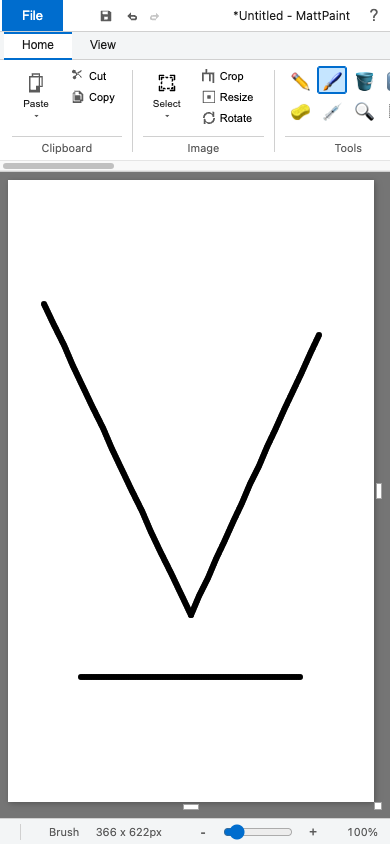
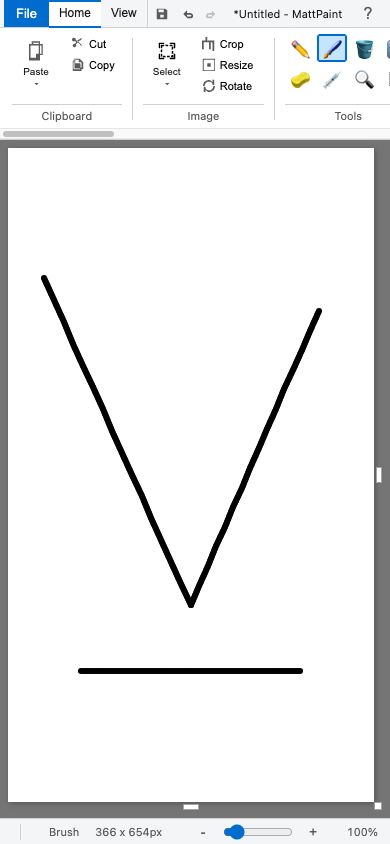
One top row, fixed View tab, copy and share your picture
- File, Home, View, save/undo/redo and the title now share one row; the
  decorative minimize/maximize/close buttons are gone
- View tab buttons use the same large-button structure as Home, so nothing
  overlaps the group labels
- File > Copy image puts the whole picture on the clipboard (Copy with no
  selection does the same); File > Share... opens the phone share sheet
- Toast for copy/share feedback

diff --git a/index.html b/index.html
@@ -17,43 +17,6 @@
 </head>
 <body>
     <div id="app">
-        <!-- Title Bar -->
-        <div id="title-bar">
-            <div class="title-left">
-                <button id="file-menu-btn" class="file-btn">File</button>
-            </div>
-            <div class="title-center">
-                <span id="document-title">Untitled - MattPaint</span>
-            </div>
-            <div class="title-right">
-                <button class="title-btn" id="help-btn" title="Help">?</button>
-                <div class="window-controls">
-                    <button class="window-btn minimize" title="Minimize">
-                        <svg viewBox="0 0 10 10"><line x1="0" y1="5" x2="10" y2="5"/></svg>
-                    </button>
-                    <button class="window-btn maximize" title="Maximize">
-                        <svg viewBox="0 0 10 10"><rect x="0" y="0" width="10" height="10" fill="none"/></svg>
-                    </button>
-                    <button class="window-btn close" title="Close">
-                        <svg viewBox="0 0 10 10"><line x1="0" y1="0" x2="10" y2="10"/><line x1="10" y1="0" x2="0" y2="10"/></svg>
-                    </button>
-                </div>
-            </div>
-        </div>
-
-        <!-- Quick Access Toolbar -->
-        <div id="quick-access">
-            <button class="qat-btn" id="qat-save" title="Save (Cmd+S)">
-                <svg viewBox="0 0 16 16"><path d="M2 2v12h12V4l-2-2H2zm2 1h6v3H4V3zm6 9H6V9h4v3z"/></svg>
-            </button>
-            <button class="qat-btn" id="qat-undo" title="Undo (Cmd+Z)">
-                <svg viewBox="0 0 16 16"><path d="M4 8l4-4v3h4a3 3 0 0 1 0 6H8v-2h4a1 1 0 0 0 0-2H8v3L4 8z"/></svg>
-            </button>
-            <button class="qat-btn" id="qat-redo" title="Redo (Cmd+Y)">
-                <svg viewBox="0 0 16 16"><path d="M12 8l-4-4v3H4a3 3 0 0 0 0 6h4v-2H4a1 1 0 0 1 0-2h4v3l4-4z"/></svg>
-            </button>
-        </div>
-
         <!-- File Menu Dropdown -->
         <div id="file-menu" class="dropdown-menu hidden">
             <div class="menu-section">
@@ -108,6 +71,20 @@
             </div>
             <div class="menu-separator"></div>
             <div class="menu-section">
+                <button class="menu-item" id="menu-copy-image">
+                    <span class="menu-icon">
+                        <svg viewBox="0 0 16 16"><path d="M4 1v2H2v12h10v-2h2V5l-4-4H4zm1 1h4v3h3v6h-1V6H5V2zm-2 2h1v8h6v1H3V4z"/></svg>
+                    </span>
+                    <span class="menu-text">Copy image</span>
+                    <span class="menu-shortcut">Cmd+C</span>
+                </button>
+                <button class="menu-item hidden" id="menu-share">
+                    <span class="menu-icon">
+                        <svg viewBox="0 0 16 16"><path d="M8 1L4.5 4.5l.7.7L7.5 3v7h1V3l2.3 2.2.7-.7L8 1zM3 7v7h10V7h-1v6H4V7H3z"/></svg>
+                    </span>
+                    <span class="menu-text">Share...</span>
+                    <span class="menu-shortcut"></span>
+                </button>
                 <button class="menu-item" id="menu-email">
                     <span class="menu-icon">
                         <svg viewBox="0 0 16 16"><path d="M1 3v10h14V3H1zm1.5 1h11l-5.5 4-5.5-4zm-.5 1.5l5 3.5 5-3.5V12H2V5.5z"/></svg>
@@ -152,10 +129,24 @@
             </div>
         </div>
 
-        <!-- Ribbon Tabs -->
+        <!-- Top row: File, tabs, quick access, title, help -->
         <div id="ribbon-tabs">
+            <button id="file-menu-btn" class="file-btn">File</button>
             <button class="ribbon-tab active" data-tab="home">Home</button>
             <button class="ribbon-tab" data-tab="view">View</button>
+            <div id="quick-access">
+                <button class="qat-btn" id="qat-save" title="Save (Cmd+S)">
+                    <svg viewBox="0 0 16 16"><path d="M2 2v12h12V4l-2-2H2zm2 1h6v3H4V3zm6 9H6V9h4v3z"/></svg>
+                </button>
+                <button class="qat-btn" id="qat-undo" title="Undo (Cmd+Z)">
+                    <svg viewBox="0 0 16 16"><path d="M4 8l4-4v3h4a3 3 0 0 1 0 6H8v-2h4a1 1 0 0 0 0-2H8v3L4 8z"/></svg>
+                </button>
+                <button class="qat-btn" id="qat-redo" title="Redo (Cmd+Y)">
+                    <svg viewBox="0 0 16 16"><path d="M12 8l-4-4v3H4a3 3 0 0 0 0 6h4v-2H4a1 1 0 0 1 0-2h4v3l4-4z"/></svg>
+                </button>
+            </div>
+            <span id="document-title">Untitled - MattPaint</span>
+            <button class="title-btn" id="help-btn" title="About MattPaint">?</button>
         </div>
 
         <!-- Ribbon Content -->
@@ -433,17 +424,23 @@
                 <div class="ribbon-group">
                     <div class="ribbon-group-content">
                         <div class="ribbon-buttons-row">
-                            <button class="ribbon-btn" id="btn-zoom-in" title="Zoom in">
-                                <svg viewBox="0 0 24 24"><path d="M10 4a6 6 0 1 0 3.5 10.9l4.3 4.3 1.4-1.4-4.3-4.3A6 6 0 0 0 10 4zm0 2a4 4 0 1 1 0 8 4 4 0 0 1 0-8zm-1 2v1H7v2h2v1h2v-1h2V9h-2V8H9z"/></svg>
-                                <span>Zoom in</span>
+                            <button class="ribbon-btn large" id="btn-zoom-in" title="Zoom in">
+                                <div class="btn-icon large">
+                                    <svg viewBox="0 0 24 24"><path d="M10 4a6 6 0 1 0 3.5 10.9l4.3 4.3 1.4-1.4-4.3-4.3A6 6 0 0 0 10 4zm0 2a4 4 0 1 1 0 8 4 4 0 0 1 0-8zm-1 2v1H7v2h2v1h2v-1h2V9h-2V8H9z"/></svg>
+                                </div>
+                                <span class="btn-label">Zoom in</span>
                             </button>
-                            <button class="ribbon-btn" id="btn-zoom-out" title="Zoom out">
-                                <svg viewBox="0 0 24 24"><path d="M10 4a6 6 0 1 0 3.5 10.9l4.3 4.3 1.4-1.4-4.3-4.3A6 6 0 0 0 10 4zm0 2a4 4 0 1 1 0 8 4 4 0 0 1 0-8zM7 9v2h6V9H7z"/></svg>
-                                <span>Zoom out</span>
+                            <button class="ribbon-btn large" id="btn-zoom-out" title="Zoom out">
+                                <div class="btn-icon large">
+                                    <svg viewBox="0 0 24 24"><path d="M10 4a6 6 0 1 0 3.5 10.9l4.3 4.3 1.4-1.4-4.3-4.3A6 6 0 0 0 10 4zm0 2a4 4 0 1 1 0 8 4 4 0 0 1 0-8zM7 9v2h6V9H7z"/></svg>
+                                </div>
+                                <span class="btn-label">Zoom out</span>
                             </button>
-                            <button class="ribbon-btn" id="btn-zoom-100" title="100%">
-                                <svg viewBox="0 0 24 24"><text x="4" y="17" font-size="12" font-weight="bold">100%</text></svg>
-                                <span>100%</span>
+                            <button class="ribbon-btn large" id="btn-zoom-100" title="100%">
+                                <div class="btn-icon large">
+                                    <svg viewBox="0 0 24 24"><rect x="2" y="6" width="20" height="12" rx="2" fill="none" stroke="currentColor" stroke-width="1.5"/><text x="12" y="15.5" font-size="8" font-weight="bold" text-anchor="middle" font-family="Segoe UI, sans-serif">100%</text></svg>
+                                </div>
+                                <span class="btn-label">100%</span>
                             </button>
                         </div>
                     </div>
@@ -464,7 +461,7 @@
                                 <input type="checkbox" id="chk-gridlines">
                                 <span>Gridlines</span>
                             </label>
-                            <label class="ribbon-checkbox" checked>
+                            <label class="ribbon-checkbox">
                                 <input type="checkbox" id="chk-statusbar" checked>
                                 <span>Status bar</span>
                             </label>
@@ -478,10 +475,14 @@
                 <!-- Display Group -->
                 <div class="ribbon-group">
                     <div class="ribbon-group-content">
-                        <button class="ribbon-btn" id="btn-fullscreen" title="Full screen">
-                            <svg viewBox="0 0 24 24"><path d="M4 4h6v2H6v4H4V4zm10 0h6v6h-2V6h-4V4zM4 14v6h6v-2H6v-4H4zm16 0v6h-6v-2h4v-4h2z"/></svg>
-                            <span>Full screen</span>
-                        </button>
+                        <div class="ribbon-buttons-row">
+                            <button class="ribbon-btn large" id="btn-fullscreen" title="Full screen">
+                                <div class="btn-icon large">
+                                    <svg viewBox="0 0 24 24"><path d="M4 4h6v2H6v4H4V4zm10 0h6v6h-2V6h-4V4zM4 14v6h6v-2H6v-4H4zm16 0v6h-6v-2h4v-4h2z"/></svg>
+                                </div>
+                                <span class="btn-label">Full screen</span>
+                            </button>
+                        </div>
                     </div>
                     <div class="ribbon-group-label">Display</div>
                 </div>
@@ -941,6 +942,7 @@
     <input type="file" id="paste-file-input" accept="image/*" class="hidden">
 
     <!-- Scripts -->
+    <div id="toast" class="hidden"></div>
     <script src="js/app.js"></script>
     <script>
         // Self-test suite loads only when asked for: index.html?test

diff --git a/js/app.js b/js/app.js
@@ -359,6 +359,13 @@
         document.getElementById('menu-save-as').addEventListener('click', () => { hideFileMenu(); saveFileAs(); });
         document.getElementById('menu-print').addEventListener('click', () => { hideFileMenu(); printFile(); });
         document.getElementById('menu-camera').addEventListener('click', () => { hideFileMenu(); openCamera(); });
+        document.getElementById('menu-copy-image').addEventListener('click', () => { hideFileMenu(); copyWholeImage(); });
+        const shareItem = document.getElementById('menu-share');
+        shareItem.addEventListener('click', () => { hideFileMenu(); shareImage(); });
+        try {
+            const probe = new File([new Blob([new Uint8Array(4)], { type: 'image/png' })], 'p.png', { type: 'image/png' });
+            if (navigator.canShare && navigator.canShare({ files: [probe] })) shareItem.classList.remove('hidden');
+        } catch (e) {}
         document.getElementById('menu-email').addEventListener('click', () => { hideFileMenu(); sendEmail(); });
         document.getElementById('menu-wallpaper').addEventListener('click', () => { hideFileMenu(); setAsWallpaper(); });
         document.getElementById('menu-properties').addEventListener('click', () => { hideFileMenu(); showProperties(); });
@@ -1270,7 +1277,53 @@
     }
 
     // ==================== CLIPBOARD ====================
+    function showToast(msg, ms = 1800) {
+        const t = document.getElementById('toast');
+        if (!t) return;
+        t.textContent = msg;
+        t.classList.remove('hidden');
+        clearTimeout(showToast._timer);
+        showToast._timer = setTimeout(() => t.classList.add('hidden'), ms);
+    }
+
+    // Copy the whole picture to the system clipboard (File > Copy image, or Copy with nothing selected)
+    function copyWholeImage() {
+        commitFloatingSelection();
+        state.clipboardData = null;
+        try {
+            mainCanvas.toBlob(blob => {
+                if (!blob || !navigator.clipboard || !window.ClipboardItem) {
+                    showToast('Copy not supported here. Use File > Save instead.');
+                    return;
+                }
+                navigator.clipboard.write([new ClipboardItem({ 'image/png': blob })])
+                    .then(() => showToast('Picture copied. Paste it anywhere.'))
+                    .catch(() => showToast('Copy blocked by the browser. Use File > Save instead.'));
+            }, 'image/png');
+        } catch (e) {
+            showToast('Copy not supported here. Use File > Save instead.');
+        }
+    }
+
+    // Phone/tablet share sheet (Web Share API with files)
+    function shareImage() {
+        commitFloatingSelection();
+        mainCanvas.toBlob(blob => {
+            if (!blob) return;
+            const file = new File([blob], (state.fileName || 'Untitled') + '.png', { type: 'image/png' });
+            if (navigator.canShare && navigator.canShare({ files: [file] })) {
+                navigator.share({ files: [file], title: 'MattPaint' }).catch(() => {});
+            } else {
+                showToast('Sharing not supported here. Use File > Save instead.');
+            }
+        }, 'image/png');
+    }
+
     function copy() {
+        if (!state.floatingSelection && !state.selection) {
+            copyWholeImage();
+            return;
+        }
         if (state.floatingSelection) {
             state.clipboardData = {
                 width: state.floatingSelection.width,

diff --git a/css/paint.css b/css/paint.css
@@ -799,29 +799,6 @@ select:focus-visible {
 
 /* ---------- Phone / narrow screens ---------- */
 @media (max-width: 700px) {
-    #title-bar {
-        position: relative;
-    }
-    .title-center {
-        position: static;
-        transform: none;
-        flex: 1;
-        min-width: 0;
-        text-align: right;
-        padding-right: 8px;
-        white-space: nowrap;
-        overflow: hidden;
-        text-overflow: ellipsis;
-    }
-    .window-controls {
-        display: none;
-    }
-    .title-left {
-        padding-left: 2px;
-    }
-    .title-center {
-        padding-left: 150px;
-    }
     .status-left {
         min-width: 0;
     }
@@ -855,4 +832,69 @@ select:focus-visible {
     .ribbon-tab {
         padding: 6px 14px;
     }
+}
+
+/* Toast */
+#toast {
+    position: fixed;
+    left: 50%;
+    bottom: 48px;
+    transform: translateX(-50%);
+    background: rgba(30, 30, 30, 0.92);
+    color: #fff;
+    font-size: 12px;
+    padding: 8px 14px;
+    border-radius: 4px;
+    z-index: 3000;
+    pointer-events: none;
+    white-space: nowrap;
+    box-shadow: 0 2px 8px rgba(0,0,0,0.3);
+}
+
+/* ---------- Single top row (File | Home | View | save undo redo | title | ?) ---------- */
+#ribbon-tabs {
+    height: 32px;
+    align-items: stretch;
+    padding: 0;
+}
+#ribbon-tabs .file-btn {
+    height: 100%;
+    padding: 0 20px;
+}
+#ribbon-tabs .ribbon-tab {
+    padding: 0 18px;
+    margin-bottom: -1px;
+}
+#ribbon-tabs #quick-access {
+    position: static;
+    height: 100%;
+    padding: 0 6px;
+    border-left: 1px solid var(--win-border);
+    margin-left: 4px;
+}
+#document-title {
+    flex: 1;
+    min-width: 0;
+    align-self: center;
+    text-align: center;
+    font-size: 12px;
+    color: var(--win-text);
+    white-space: nowrap;
+    overflow: hidden;
+    text-overflow: ellipsis;
+    padding: 0 8px;
+}
+#ribbon-tabs .title-btn {
+    height: 100%;
+    width: 36px;
+}
+#file-menu {
+    top: 32px;
+    left: 0;
+}
+@media (max-width: 700px) {
+    #ribbon-tabs .file-btn { padding: 0 12px; }
+    #ribbon-tabs .ribbon-tab { padding: 0 10px; }
+    #ribbon-tabs #quick-access { padding: 0 2px; margin-left: 0; }
+    #document-title { font-size: 11px; padding: 0 4px; }
 }

diff --git a/css/ribbon.css b/css/ribbon.css
@@ -137,7 +137,7 @@
 }
 
 .ribbon-btn.large {
-    width: 48px;
+    width: auto;
     min-width: 48px;
 }
 
